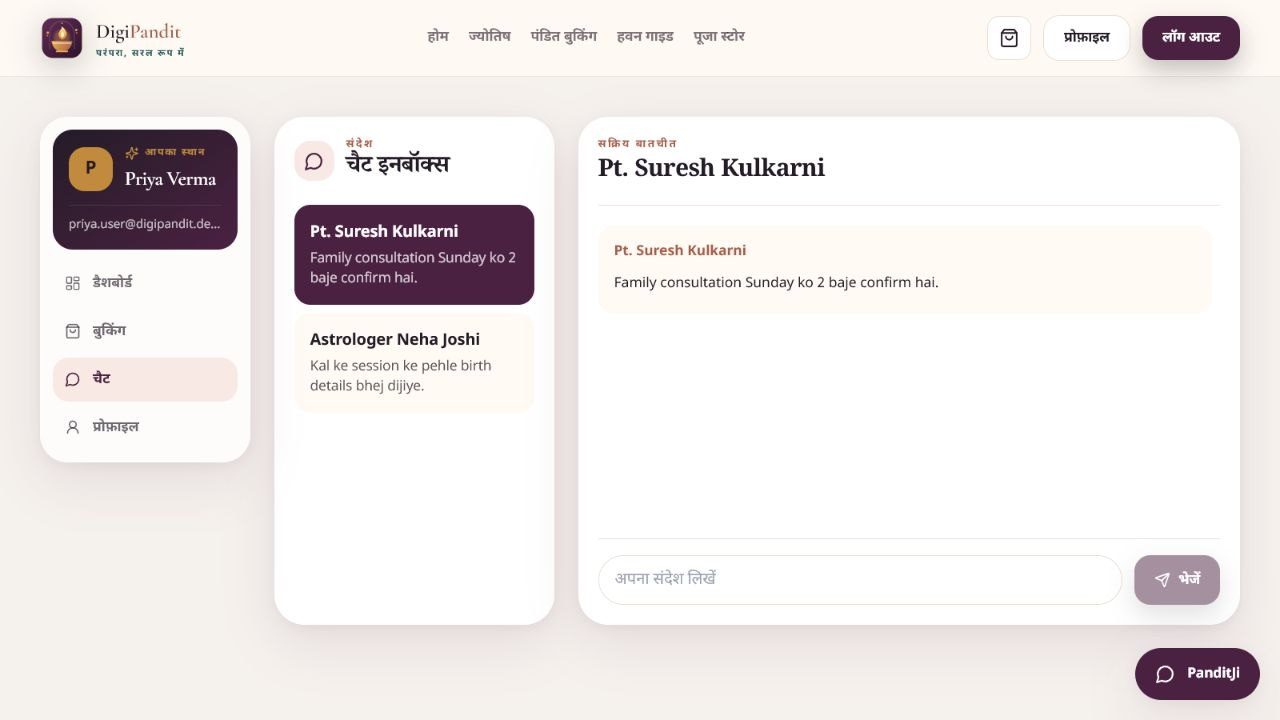
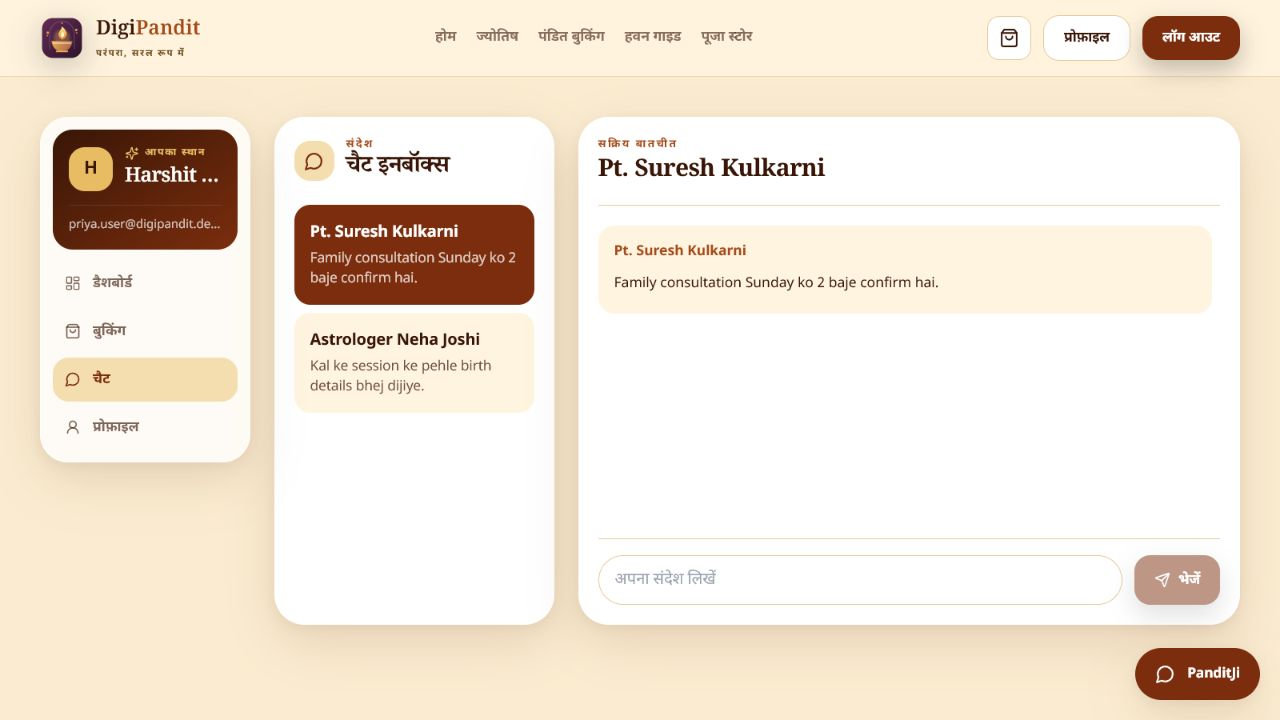
docs: show Harshit profile in product gallery

diff --git a/backend/src/seeders/seedDemoData.js b/backend/src/seeders/seedDemoData.js
@@ -36,10 +36,10 @@ const demoUsers = [
     addresses: [address({ city: "Delhi", state: "Delhi", line1: "B-24 Rohini Sector 9", pincode: "110085", landmark: "Near Metro Gate 2" })],
   },
   {
-    name: "Priya Verma",
-    email: "priya.user@digipandit.demo",
+    name: "Harshit Bhardwaj",
+    email: "harshit.user@digipandit.demo",
     phone: "9876501002",
-    gender: "Female",
+    gender: "Male",
     city: "Noida",
     state: "Uttar Pradesh",
     addresses: [address({ city: "Noida", state: "Uttar Pradesh", line1: "Tower 7, Sector 137", pincode: "201305", landmark: "Opposite Expressway" })],
@@ -603,7 +603,7 @@ const createBookings = async ({ users, panditUsers, profiles }) => {
     {
       bookingType: "ASTROLOGY_CHAT",
       status: "ACCEPTED",
-      user: userMap["priya.user@digipandit.demo"]._id,
+      user: userMap["harshit.user@digipandit.demo"]._id,
       pandit: panditMap["neha.astrologer@digipandit.demo"]._id,
       panditProfile: nehaProfile._id,
       service: findService(nehaProfile, "Astrology Chat Session"),
@@ -611,7 +611,7 @@ const createBookings = async ({ users, panditUsers, profiles }) => {
       durationInMinutes: 25,
       notes: "Marriage compatibility and timing guidance.",
       meetingMode: "ONLINE",
-      address: userMap["priya.user@digipandit.demo"].addresses[0],
+      address: userMap["harshit.user@digipandit.demo"].addresses[0],
       payment: {
         status: "PAID",
         gatewayOrderId: "demo_booking_order_2",
@@ -661,7 +661,7 @@ const createBookings = async ({ users, panditUsers, profiles }) => {
     {
       bookingType: "ASTROLOGY_CALL",
       status: "ACCEPTED",
-      user: userMap["priya.user@digipandit.demo"]._id,
+      user: userMap["harshit.user@digipandit.demo"]._id,
       pandit: panditMap["suresh.pandit@digipandit.demo"]._id,
       panditProfile: sureshProfile._id,
       service: findService(sureshProfile, "Family Astrology Call"),
@@ -669,7 +669,7 @@ const createBookings = async ({ users, panditUsers, profiles }) => {
       durationInMinutes: 45,
       notes: "Family planning and health remedies consultation.",
       meetingMode: "ONLINE",
-      address: userMap["priya.user@digipandit.demo"].addresses[0],
+      address: userMap["harshit.user@digipandit.demo"].addresses[0],
       payment: {
         status: "PAID",
         gatewayOrderId: "demo_booking_order_5",
@@ -730,12 +730,12 @@ const createStoreOrders = async ({ users, products }) => {
       paymentStatus: "PAID",
     },
     {
-      user: userMap["priya.user@digipandit.demo"]._id,
+      user: userMap["harshit.user@digipandit.demo"]._id,
       items: [
         { product: productMap["bhagavad-gita-pocket-edition"], quantity: 1 },
         { product: productMap["brass-ganesha-idol"], quantity: 1 },
       ],
-      shippingAddress: userMap["priya.user@digipandit.demo"].addresses[0],
+      shippingAddress: userMap["harshit.user@digipandit.demo"].addresses[0],
       orderStatus: "PROCESSING",
       paymentStatus: "PAID",
     },
@@ -784,14 +784,14 @@ const createChats = async ({ bookings, userMap, panditMap }) => {
 
   const roomOne = await ChatRoom.create({
     booking: astrologyBooking._id,
-    participants: [userMap["priya.user@digipandit.demo"]._id, panditMap["neha.astrologer@digipandit.demo"]._id],
+    participants: [userMap["harshit.user@digipandit.demo"]._id, panditMap["neha.astrologer@digipandit.demo"]._id],
     lastMessage: "Kal ke session ke pehle birth details bhej dijiye.",
     lastMessageAt: new Date("2026-03-29T10:15:00.000Z"),
   });
 
   const roomTwo = await ChatRoom.create({
     booking: familyCallBooking._id,
-    participants: [userMap["priya.user@digipandit.demo"]._id, panditMap["suresh.pandit@digipandit.demo"]._id],
+    participants: [userMap["harshit.user@digipandit.demo"]._id, panditMap["suresh.pandit@digipandit.demo"]._id],
     lastMessage: "Family consultation Sunday ko 2 baje confirm hai.",
     lastMessageAt: new Date("2026-03-29T11:20:00.000Z"),
   });
@@ -806,9 +806,9 @@ const createChats = async ({ bookings, userMap, panditMap }) => {
   await Message.insertMany([
     {
       room: roomOne._id,
-      sender: userMap["priya.user@digipandit.demo"]._id,
+      sender: userMap["harshit.user@digipandit.demo"]._id,
       content: "Namaste ji, mujhe marriage compatibility aur shubh mahurat par guidance chahiye.",
-      readBy: [userMap["priya.user@digipandit.demo"]._id, panditMap["neha.astrologer@digipandit.demo"]._id],
+      readBy: [userMap["harshit.user@digipandit.demo"]._id, panditMap["neha.astrologer@digipandit.demo"]._id],
       createdAt: new Date("2026-03-29T10:02:00.000Z"),
       updatedAt: new Date("2026-03-29T10:02:00.000Z"),
     },
@@ -816,7 +816,7 @@ const createChats = async ({ bookings, userMap, panditMap }) => {
       room: roomOne._id,
       sender: panditMap["neha.astrologer@digipandit.demo"]._id,
       content: "Bilkul. Aap birth date, time, aur place share kijiye. Main compatibility aur timing dono check kar dungi.",
-      readBy: [userMap["priya.user@digipandit.demo"]._id, panditMap["neha.astrologer@digipandit.demo"]._id],
+      readBy: [userMap["harshit.user@digipandit.demo"]._id, panditMap["neha.astrologer@digipandit.demo"]._id],
       createdAt: new Date("2026-03-29T10:05:00.000Z"),
       updatedAt: new Date("2026-03-29T10:05:00.000Z"),
     },
